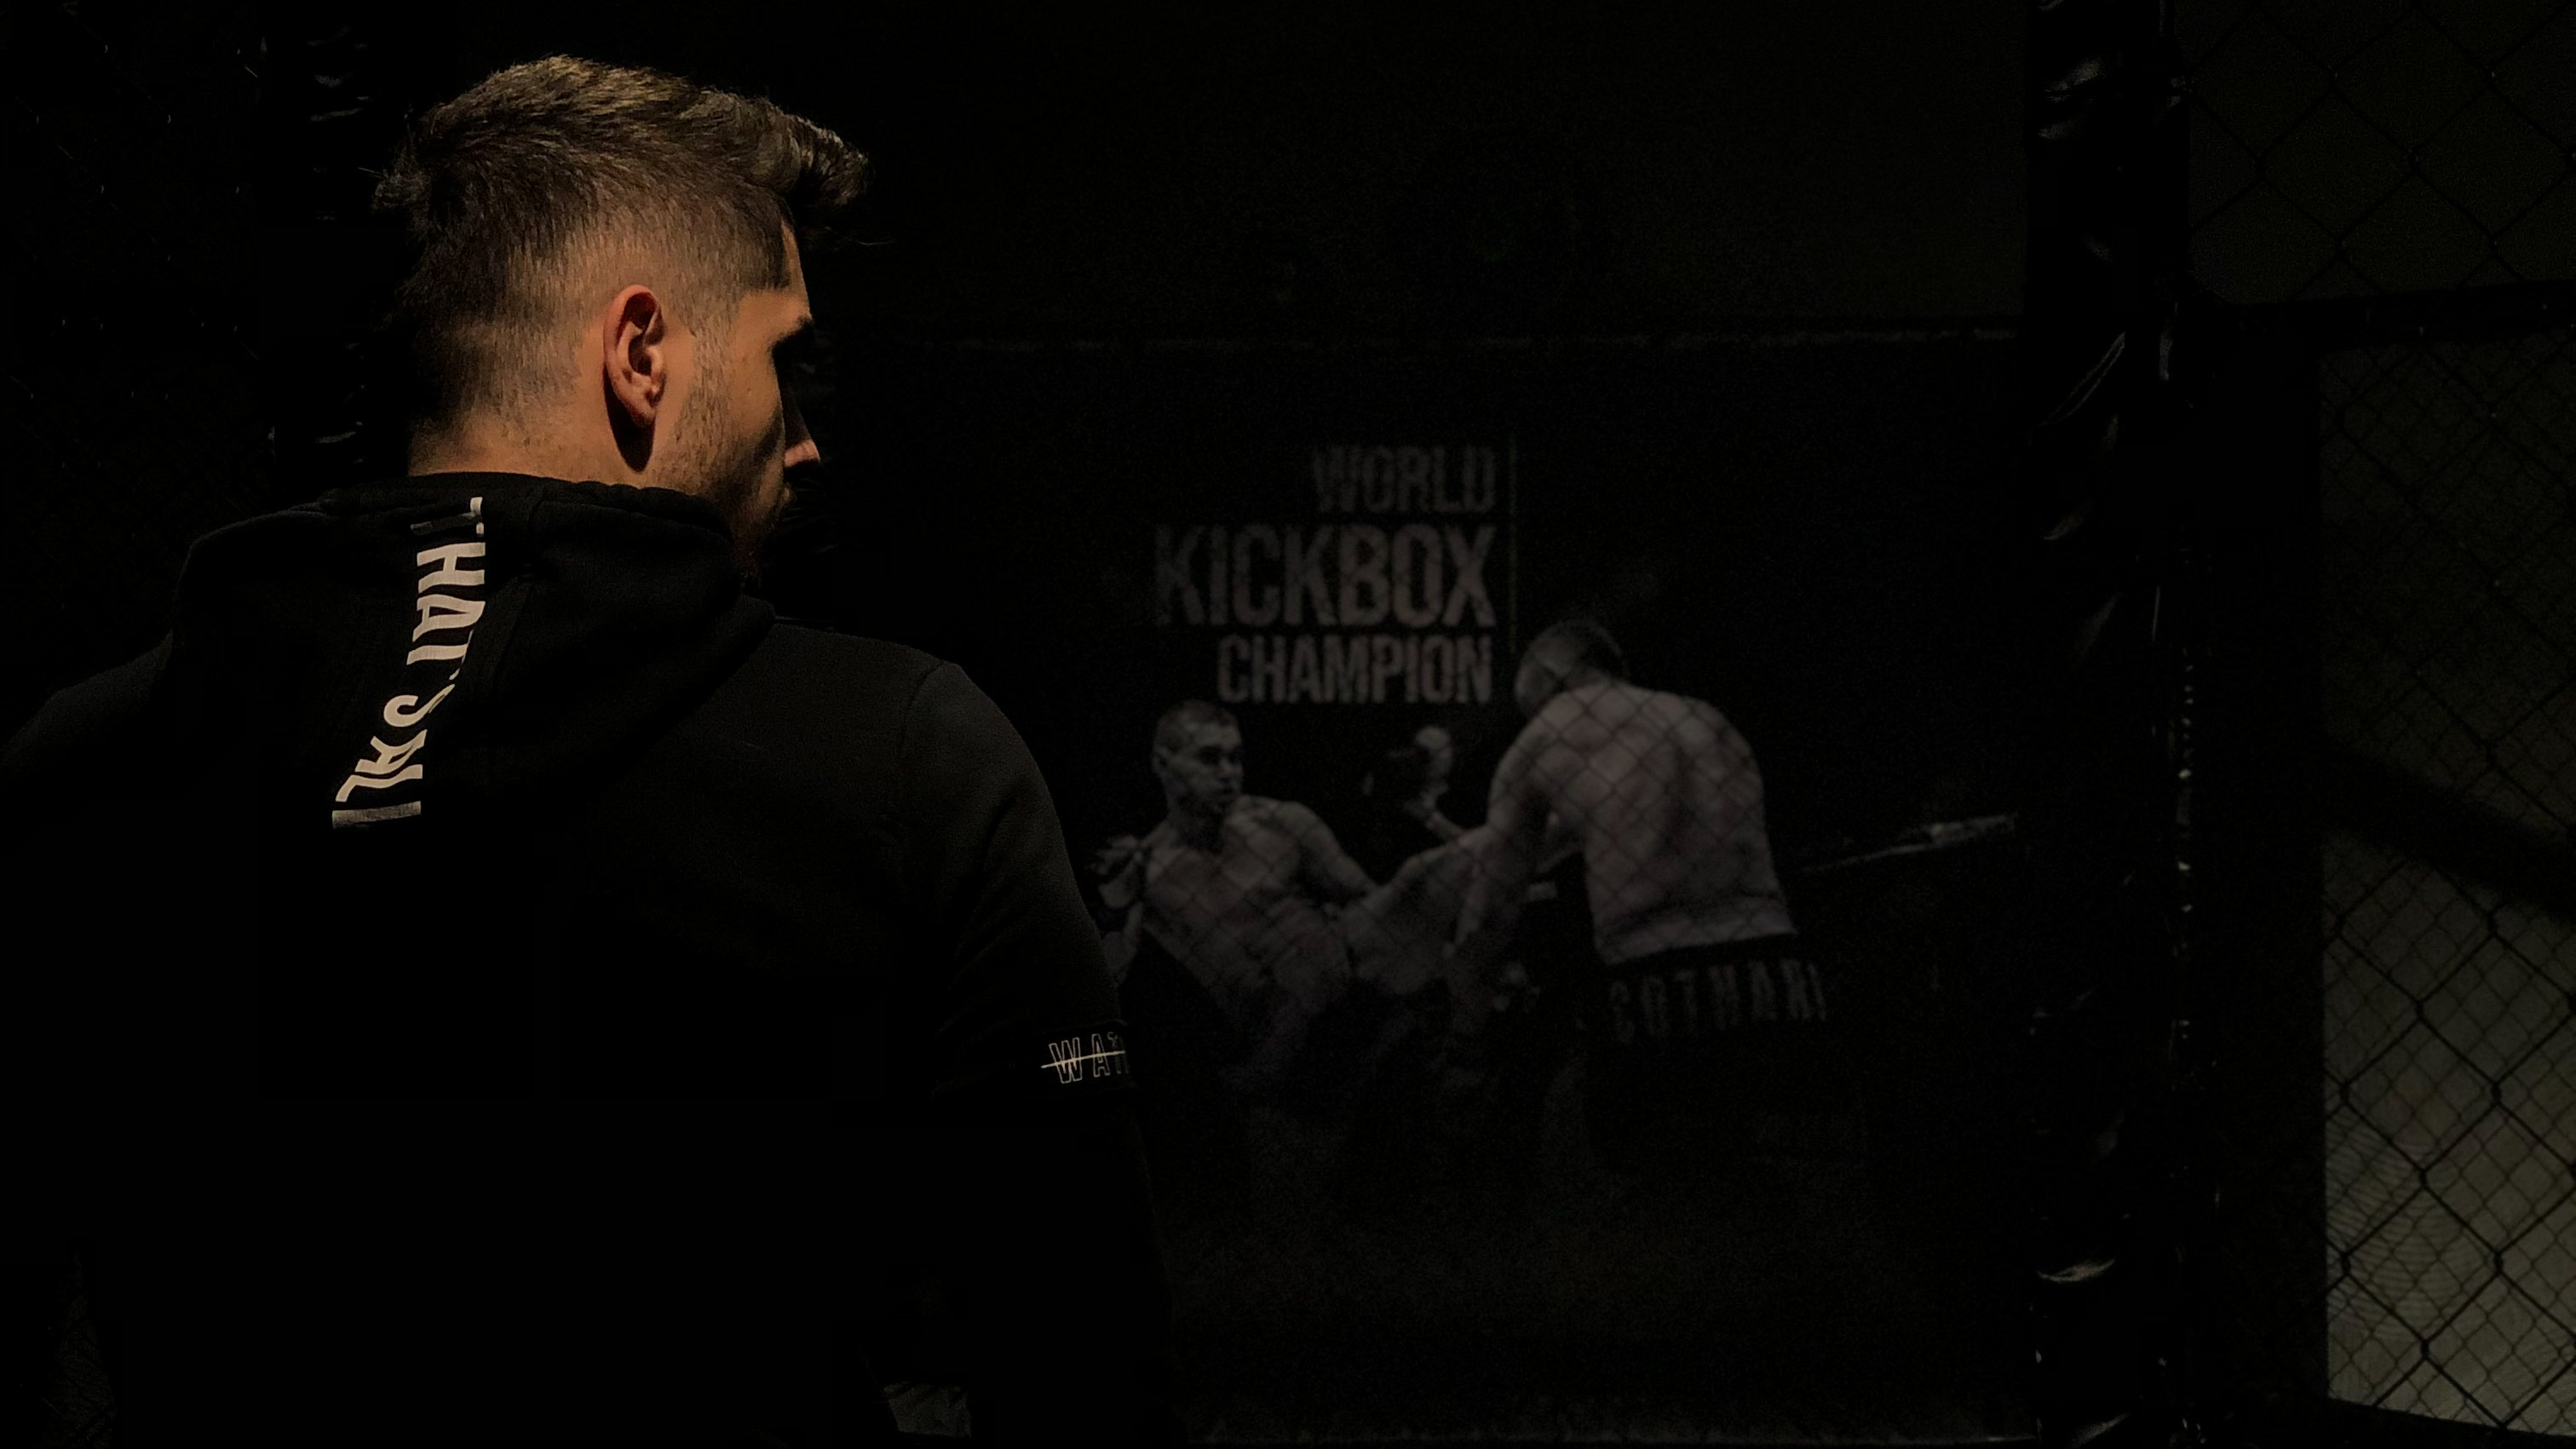
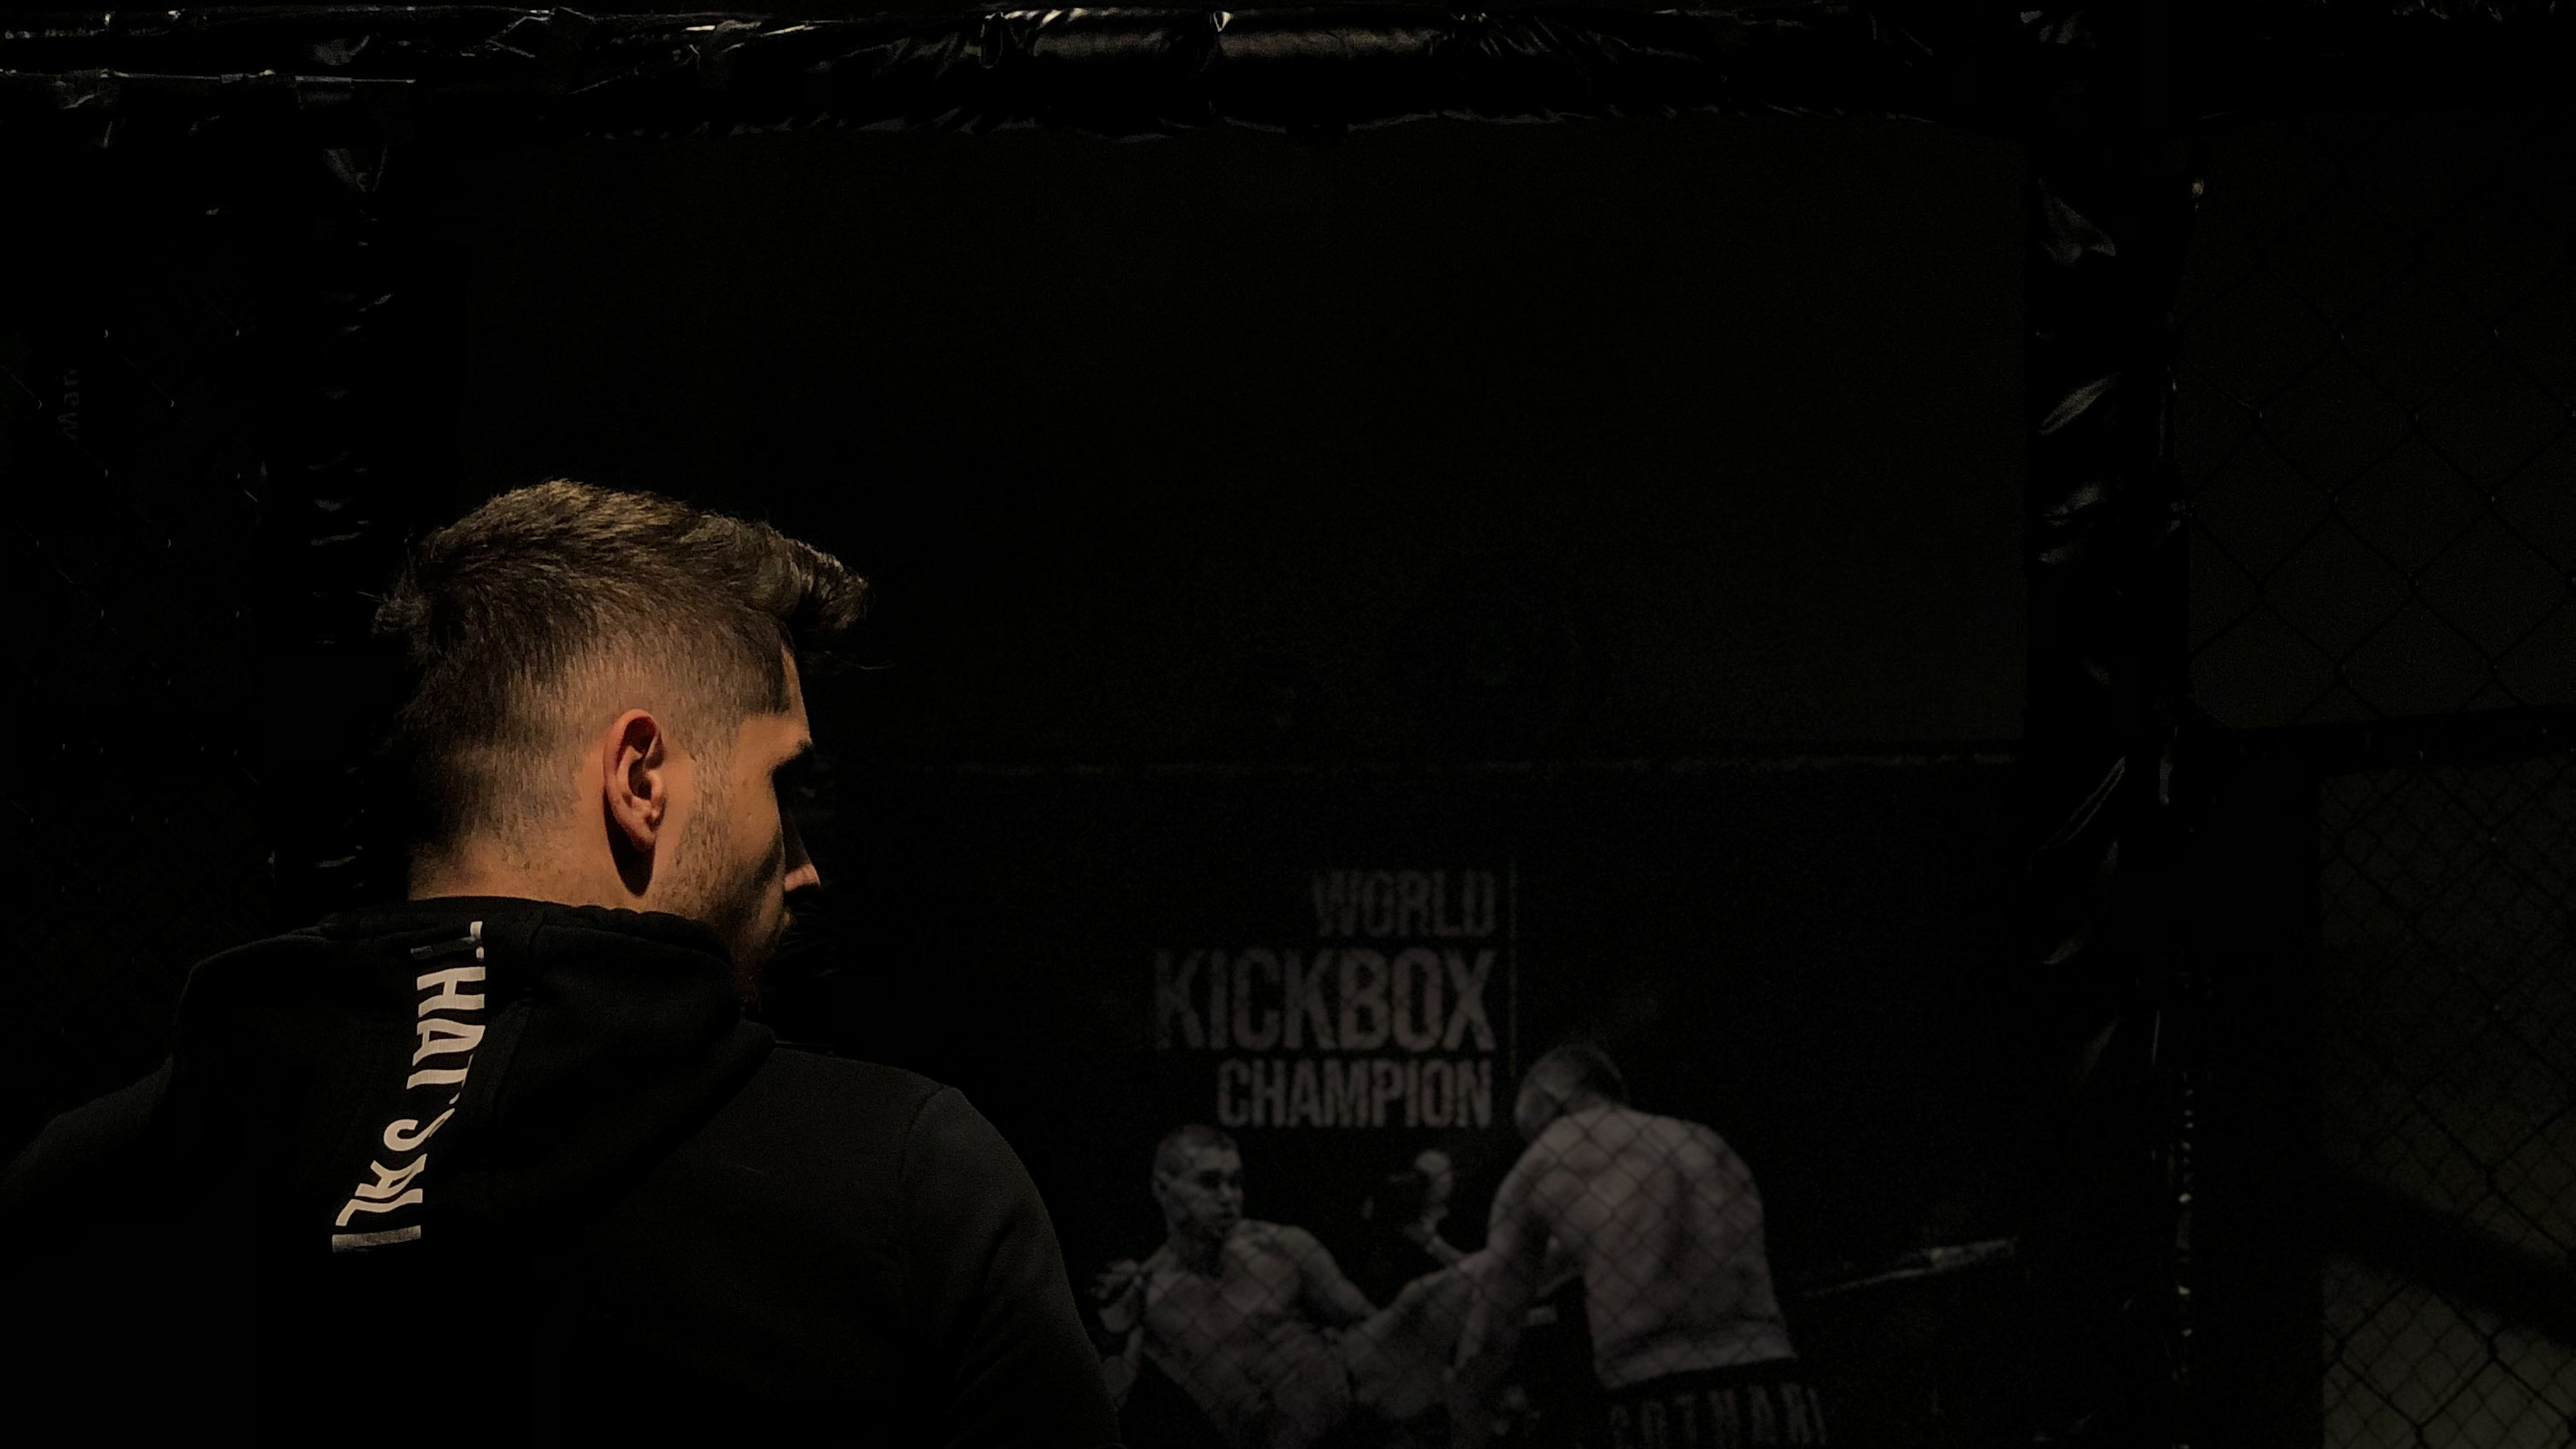
0.03

diff --git a/index.html b/index.html
@@ -6,25 +6,18 @@
 
     <head>
         <meta charset="utf-8">
-        <title>Enes Furkan ALDEMİR EFA TEAM KICK BOKS
-        </title><!-- Behavioral Meta Data -->
+        <title>EFA TEAM </title><!-- Behavioral Meta Data -->
         <meta content="yes" name="apple-mobile-web-app-capable">
         <meta content="width=device-width, initial-scale=1, maximum-scale=1, user-scalable=no" name="viewport"><!-- Core Meta Data -->
         <meta content="ThemeWagon" name="author">
         <meta content="The most spectacular coming soon template!" name="description">
         <meta content="Comming Soon, Responsive, Landing Page, One Page" name="keywords"><!-- Open Graph Meta Data -->
         <meta content="The most spectacular coming soon template!">
-        <meta content="ThemeWagon">
-        <meta content="ThemeWagon">
         <meta content="website">
         <meta content="index.html"><!-- Twitter Card Meta Data -->
-        <meta content="summary" name="twitter:card">
-        <meta content="@themewagon" name="twitter:site">
-        <meta content="@themewagon" name="twitter:creator">
-        <meta content="ThemeWagon" name="twitter:title">
-        <meta content="Imminent - The most spectacular coming soon template!" name="twitter:description">
+        
 
-        <link href="favicon.png" rel="shortcut icon" type="image/png">
+        <link href="images/sphere1.png" rel="shortcut icon" type="image/png">
 
         <!--[if lt IE 9]>
             <script src="http://html5shim.googlecode.com/svn/trunk/html5.js"></script>
@@ -47,7 +40,7 @@
         <div class="preloader">
             <div class="loading">
                 <h2>
-                    Loading...
+                    Yükleniyor..
                 </h2>
                 <span class="progress"></span>
             </div>

diff --git a/css/style.css b/css/style.css
@@ -140,7 +140,7 @@ h2 {
 
 /* Background */
 .background {
-  background: url(../images/background.jpg) no-repeat 50% 100%;
+  background: url(../images/background.jpg) no-repeat 10% 100%;
   bottom: -20px;
   background-size: cover;
   position: absolute;
@@ -411,6 +411,7 @@ h2 {
 /* Landscape Phone */
 @media all and (min-width: 400px) {
 	/* HERO */
+	
 	h1 { font-size: 40px; line-height: 40px; }
 	#countdown div span {font-size: 24px; line-height: 34px;}
 	.sub-title { font-size: ; line-height: ; margin-top: 10px; }
